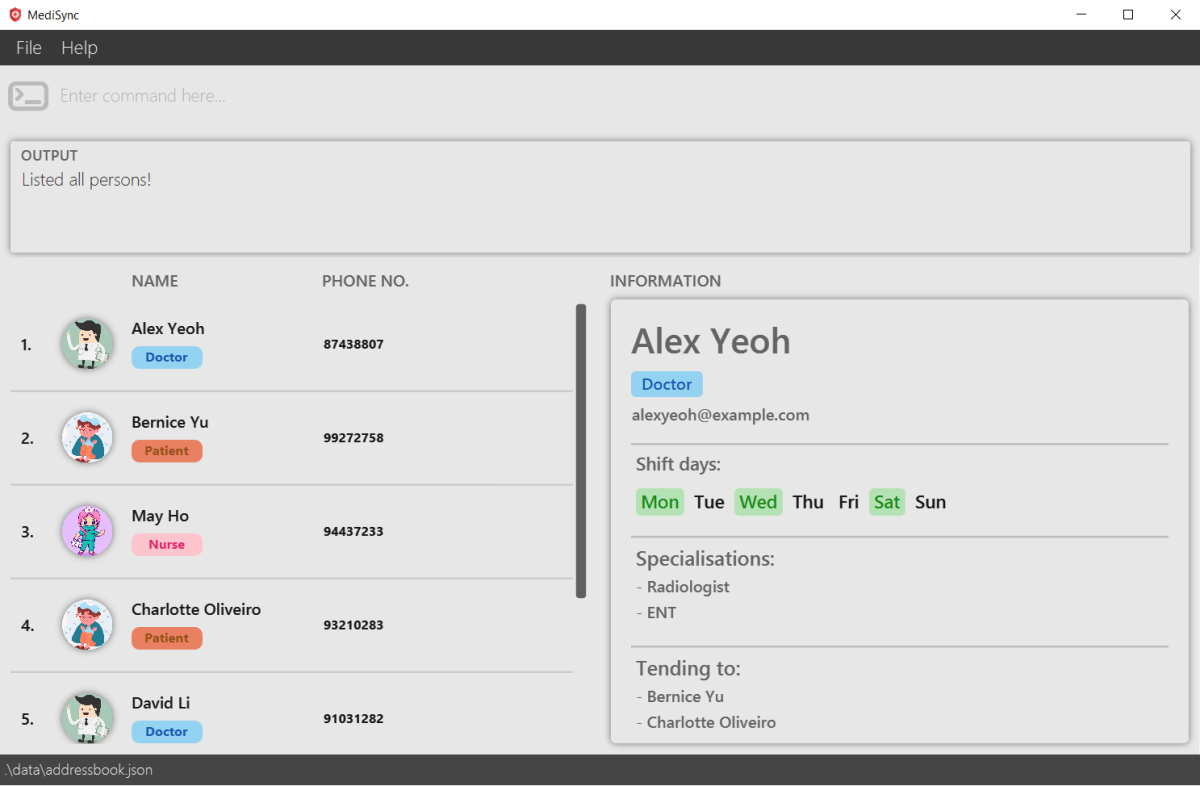
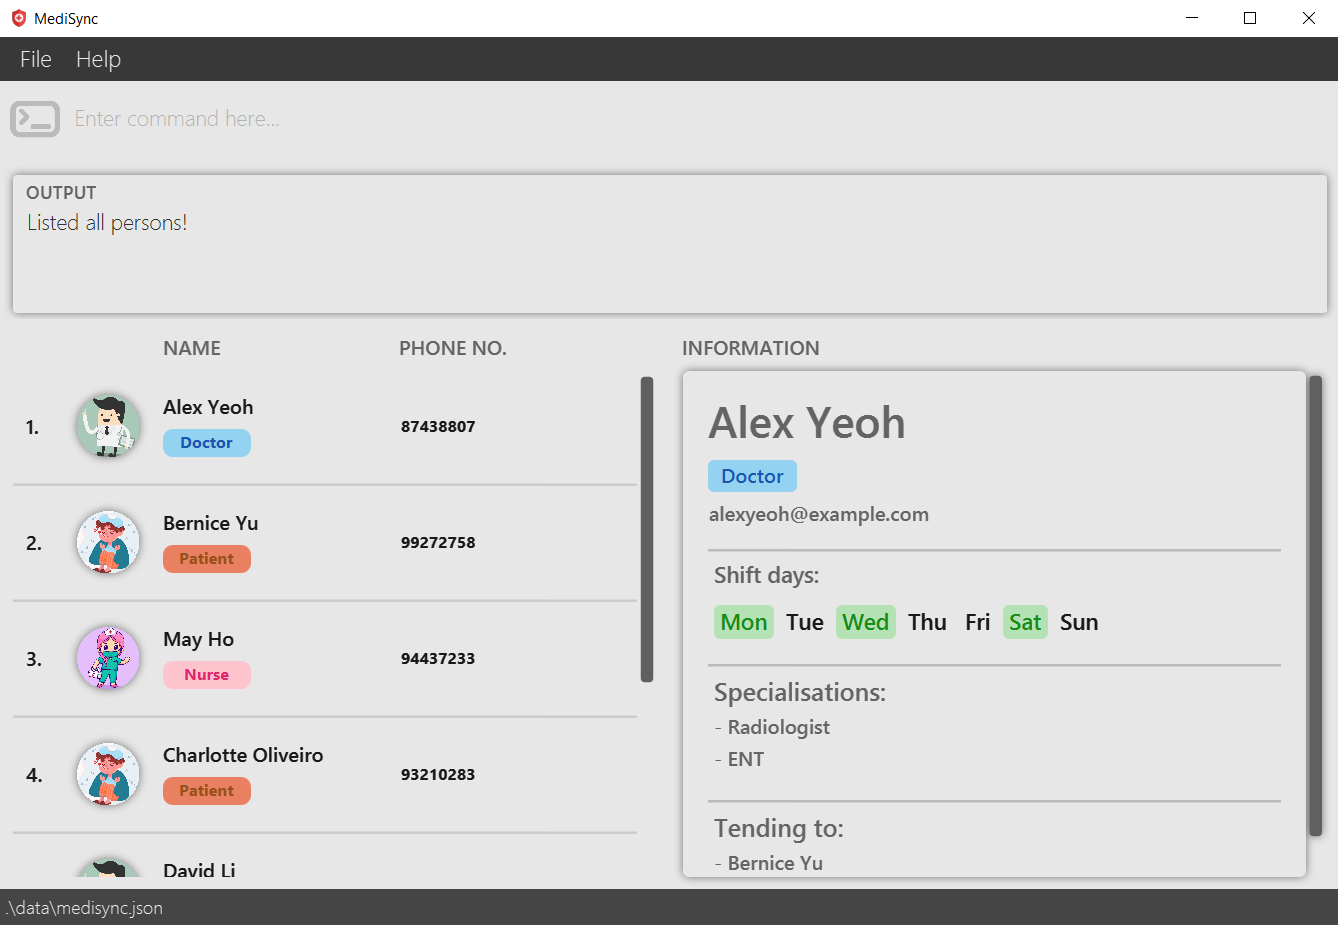
Adjust UserGuide and datafile name

diff --git a/src/test/java/seedu/address/logic/LogicManagerTest.java b/src/test/java/seedu/address/logic/LogicManagerTest.java
@@ -46,7 +46,7 @@ public class LogicManagerTest {
     @BeforeEach
     public void setUp() {
         JsonAddressBookStorage addressBookStorage =
-                new JsonAddressBookStorage(temporaryFolder.resolve("addressBook.json"));
+                new JsonAddressBookStorage(temporaryFolder.resolve("medisync.json"));
         JsonUserPrefsStorage userPrefsStorage = new JsonUserPrefsStorage(temporaryFolder.resolve("userPrefs.json"));
         StorageManager storage = new StorageManager(addressBookStorage, userPrefsStorage);
         logic = new LogicManager(model, storage);

diff --git a/src/test/java/seedu/address/storage/JsonUserPrefsStorageTest.java b/src/test/java/seedu/address/storage/JsonUserPrefsStorageTest.java
@@ -73,7 +73,7 @@ public class JsonUserPrefsStorageTest {
     private UserPrefs getTypicalUserPrefs() {
         UserPrefs userPrefs = new UserPrefs();
         userPrefs.setGuiSettings(new GuiSettings(1000, 500, 300, 100));
-        userPrefs.setAddressBookFilePath(Paths.get("addressbook.json"));
+        userPrefs.setAddressBookFilePath(Paths.get("medisync.json"));
         return userPrefs;
     }
 

diff --git a/src/main/java/seedu/address/model/UserPrefs.java b/src/main/java/seedu/address/model/UserPrefs.java
@@ -14,7 +14,7 @@ import seedu.address.commons.core.GuiSettings;
 public class UserPrefs implements ReadOnlyUserPrefs {
 
     private GuiSettings guiSettings = new GuiSettings();
-    private Path addressBookFilePath = Paths.get("data" , "addressbook.json");
+    private Path addressBookFilePath = Paths.get("data" , "medisync.json");
 
     /**
      * Creates a {@code UserPrefs} with default values.

diff --git a/docs/UserGuide.md b/docs/UserGuide.md
@@ -41,6 +41,23 @@ MediSync is a **desktop app specifically used for head nurses to manage staff an
 1. Refer to the [Features](#features) below for details of each command.
 
 --------------------------------------------------------------------------------------------------------------------
+## Glossary
+
+MediSync strives to streamline the storage and identification of contacts, focusing on essential information that are critical in medical contexts.
+
+Here are some definitions that are noteworthy when using MediSync.
+
+| Term                | Explanation                                                                                                                                                                                                                                                                                                                                                                  |
+|---------------------|------------------------------------------------------------------------------------------------------------------------------------------------------------------------------------------------------------------------------------------------------------------------------------------------------------------------------------------------------------------------------|
+| Role                | The **role** of a person in the contact list is either `Doctor`, `Nurse`, or `Patient`. When we use the word staff, we are implying both `Doctor`s and `Nurse`s.                                                                                                                                                                                                             |
+| Affiliation         | With staff members providing care to specific `Patient`s, there is a need to establish an association between staff members and `Patient`s. We use **affiliations** to denote such relationships. Such relationships can never be one-sided in MediSync, and it will not exist between staff members or between `Patient`s.                                                  |
+| Affiliation History | Having some level of history-taking is vital in tracking medical care. The use of **affiliation history** is to track past staff members that had affiliations with a particular `Patient`, and vice-versa. MediSync allows for the deletion of these history, but existing affiliations can never be deleted from the affiliation history until the affiliation is severed. |
+| Shift Days          | **Shift days** is an attribute unique to staff members. For simplicity, the current version of MediSync monitors the workdays of each staff member in blocks of days.                                                                                                                                                                                                        |
+| Next of Kin         | The **Next of Kin** attribute is meant for `Patient`s. Having a method of contact with the `Patient`s next of kin is vital in medical care.                                                                                                                                                                                                                                  |
+| Specialisation      | Exclusively for `Doctor`s, the **specialisation** attribute offers added information about each doctor, enabling the appropriate doctor to be matched with patients having diverse requirements.                                                                                                                                                                             |
+
+
+--------------------------------------------------------------------------------------------------------------------
 
 ## Features
 
@@ -105,7 +122,7 @@ Format: `list`
 
 Edits an existing contact in the contact list.
 
-Format: `edit INDEX [n/NAME] [p/PHONE] [e/EMAIL] [a/AFFN_NAME_NAME]…`
+Format: `edit INDEX [n/NAME] [p/PHONE] [e/EMAIL] [a/AFFN_NAME]…`
 
 * Edits the person at the specified `INDEX`. The index refers to the index number shown in the displayed person list. The index **must be a positive integer** 1, 2, 3, …
 * At least one of the optional fields must be provided.
@@ -139,7 +156,7 @@ Examples:
 
 ### Add affiliations of a staff/patient: `addaffn`
 
-Format: `addaffn INDEX a/AFFN_NAME [a/AFFN_NAME_NAME]…`
+Format: `addaffn INDEX a/AFFN_NAME [a/AFFN_NAME]…`
 
 Add affiliations to staff/patients indicated by the given `INDEX` without deleting existing affiliation.
 
@@ -151,7 +168,7 @@ Add affiliations to staff/patients indicated by the given `INDEX` without deleti
 * Adding patient A to affiliation of staff B, will result in adding staff B to affiliation of Patient A.
 * Multiple affiliations can be added.
 * At least one affiliation field must be provided.
-* `AFFN` is specified as full name of a person in the contact list.
+* `AFFN_NAME` is specified as full name of a person in the contact list.
 
 Examples:
 * `addaffn 1 a/John` add `John` to affiliation of 1st person in the contact list.
